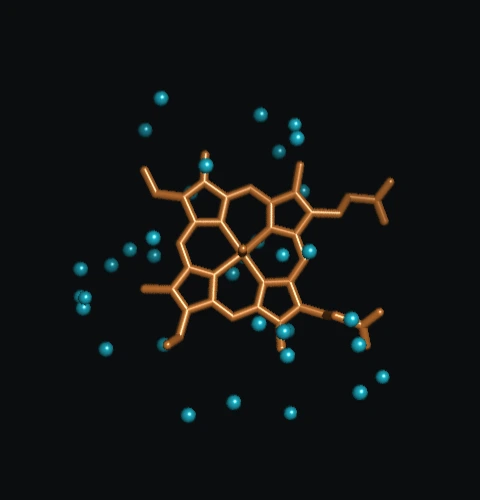
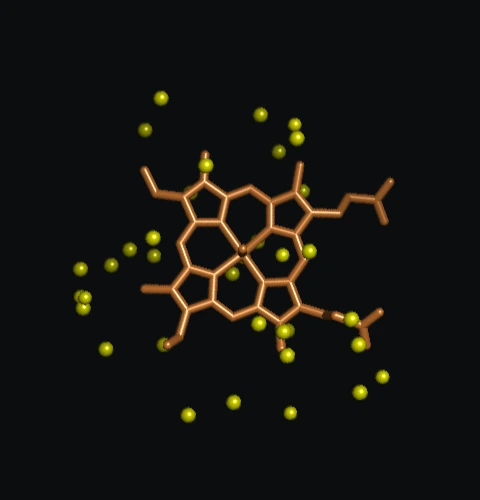
docs: use polymer chain colors throughout the selection lesson

diff --git a/docs/selections.html b/docs/selections.html
@@ -36,17 +36,17 @@
 <li><a href="#cheatsheet">Selection algebra cheat sheet</a></li>
 </ul></aside>
 <main class="docs-content" id="main"><a class="docs-back" href="../docs.html">← Documentation</a><noscript><p>Run the examples in desktop Patinae to follow along.</p></noscript>
-<section class="doc-page" id="atom-sets" data-title="From objects to selections" data-src="../assets/pdb/1HHO.pdb" data-command="hide everything; show cartoon, polymer.protein; show lines, resn HEM; color gray; color cyan, chain A; color orange, resn HEM; label polymer.protein and resi 1 and name CA, chain; orient polymer.protein; zoom polymer.protein, buffer=3">
+<section class="doc-page" id="atom-sets" data-title="From objects to selections" data-src="../assets/pdb/1HHO.pdb" data-command="hide everything; show cartoon, polymer.protein; show lines, resn HEM; color gray; color chain, polymer; color orange, resn HEM; label polymer.protein and resi 1 and name CA, chain; orient polymer.protein; zoom polymer.protein, buffer=3">
 <div class="docs-section">
 <div class="docs-hero"><h1>Selection algebra</h1><p>In <a class="ext-link" href="quick-start.html">Quick start</a>, you used commands to color a structure, change its representation and move the camera. Giving a command an object name makes the whole object its target. What if you want to work on just part of it?</p></div>
 <h2>Give a command a group of atoms</h2>
 <p>A <strong>selection</strong> is a group of atoms from any of the objects in a scene. It can contain a single atom, part of a molecule, or atoms from several objects at once. When you give a selection to a command such as <code>color</code>, the command colors only those atoms.</p>
-<p>Try this on the hemoglobin model from Quick start. Its object name is <code>1HHO</code>. Run the first command to turn the whole model gray. Then run the second and watch which parts turn orange.</p>
+<p>Try this on the hemoglobin model from Quick start. Its object name is <code>1HHO</code>. Run the first command to color the entire object by chain, including its heme segments. Then run the second and watch which parts turn orange.</p>
 <div class="command-example"><div class="command-lines">
-<div class="command-line"><code id="color-object">color gray, 1HHO</code><span class="command-line-actions"><button type="button" class="cmd-run command-run" data-run-example data-cmd-ref="color-object" disabled>Run</button><button type="button" data-copy="color-object" aria-label="Copy color gray, 1HHO">Copy</button></span></div>
+<div class="command-line"><code id="color-object">color chain, 1HHO</code><span class="command-line-actions"><button type="button" class="cmd-run command-run" data-run-example data-cmd-ref="color-object" disabled>Run</button><button type="button" data-copy="color-object" aria-label="Copy color chain, 1HHO">Copy</button></span></div>
 <div class="command-line"><code id="color-hemes">color orange, resn HEM</code><span class="command-line-actions"><button type="button" class="cmd-run command-run" data-run-example data-cmd-ref="color-hemes" disabled>Run</button><button type="button" data-copy="color-hemes" aria-label="Copy color orange, resn HEM">Copy</button></span></div>
 </div></div>
-<p>Both hemes turn orange and the protein ribbons stay gray. The expression <code>resn HEM</code> selects every atom whose residue name is HEM. You can use that expression directly wherever a command accepts a selection.</p>
+<p>Both hemes turn orange while the protein ribbons keep their chain colors. The expression <code>resn HEM</code> selects every atom whose residue name is HEM. You can use that expression directly wherever a command accepts a selection.</p>
 <h3>Give the selection a name</h3>
 <p>If you want to work with those atoms again, you can name the group. Here <code>select</code> gives it the name <code>hemes</code>.</p>
 <div class="command-example"><div class="command-lines">
@@ -94,7 +94,7 @@
 <div class="doc-page-nav"><button type="button" data-nav="prev"></button><span class="page-counter"></span><button type="button" data-nav="next"></button></div>
 </section>
 
-<section class="doc-page" id="logic" data-title="Combine sets" data-src="../assets/pdb/1HHO.pdb" data-command="hide everything; show cartoon, polymer.protein; show sticks, resn HEM; color gray; color cyan, chain A; color orange, resn HEM; label polymer.protein and resi 1 and name CA, chain; orient polymer.protein; zoom polymer.protein, buffer=3">
+<section class="doc-page" id="logic" data-title="Combine sets" data-src="../assets/pdb/1HHO.pdb" data-command="hide everything; show cartoon, polymer.protein; show sticks, resn HEM; color gray; color chain, polymer; color orange, resn HEM; label polymer.protein and resi 1 and name CA, chain; orient polymer.protein; zoom polymer.protein, buffer=3">
 <div class="docs-section">
 <h2>What survives each operation?</h2>
 <p>Use two overlapping sets. <code>chain A*</code> means every atom whose loaded chain identifier starts with A. In this file that includes the alpha protein, its heme and other atoms in its PDB chain. <code>resn HEM</code> covers both hemes. The camera stays still as you replace the selection.</p>
@@ -113,7 +113,7 @@
 <div class="command-example"><div class="command-lines">
 <div class="command-line"><code id="example-16">select sample, chain A* or resn HEM</code><span class="command-line-actions"><button type="button" class="cmd-run command-run" data-run-example data-cmd-ref="example-16" disabled>Run</button><button type="button" data-copy="example-16" aria-label="Copy select sample, chain A* or resn HEM">Copy</button></span></div>
 </div></div>
-<p>The beta heme joins the A atoms. The gray beta protein stays outside. An atom in both sets is counted once.</p>
+<p>The beta heme joins the A atoms. The pink beta protein stays outside. An atom in both sets is counted once.</p>
 <h3>Difference</h3>
 <p>Keep the A atoms and exclude every heme atom. Check the cyan protein and its orange heme separately.</p>
 <div class="command-example"><div class="command-lines">
@@ -131,7 +131,7 @@
 <div class="doc-page-nav"><button type="button" data-nav="prev"></button><span class="page-counter"></span><button type="button" data-nav="next"></button></div>
 </section>
 
-<section class="doc-page" id="grouping" data-title="Group conditions" data-src="../assets/pdb/1HHO.pdb" data-command="hide everything; show cartoon, polymer.protein; show sticks, resn HEM; color gray; color cyan, chain A; color orange, resn HEM; label polymer.protein and resi 1 and name CA, chain; orient polymer.protein; zoom polymer.protein, buffer=3">
+<section class="doc-page" id="grouping" data-title="Group conditions" data-src="../assets/pdb/1HHO.pdb" data-command="hide everything; show cartoon, polymer.protein; show sticks, resn HEM; color gray; color chain, polymer; color orange, resn HEM; label polymer.protein and resi 1 and name CA, chain; orient polymer.protein; zoom polymer.protein, buffer=3">
 <div class="docs-section">
 <h2>Follow one atom through the brackets</h2>
 <p>Pick any atom in the cyan protein ribbon. It belongs to an A segment and its residue name differs from HEM. Decide whether it should be selected by each of these expressions before pressing Run.</p>
@@ -150,7 +150,7 @@
 <div class="doc-page-nav"><button type="button" data-nav="prev"></button><span class="page-counter"></span><button type="button" data-nav="next"></button></div>
 </section>
 
-<section class="doc-page" id="distance" data-title="Measure a neighborhood" data-src="../assets/pdb/1HHO.pdb" data-command="select heme_a, chain A2 and resn HEM; select protein_a, chain A and polymer.protein; select near_a, protein_a within 4 of heme_a; select pocket_a, byres (near_a); disable *_a; hide everything; color gray; show sticks, heme_a; color orange, heme_a; set sphere_scale, 0.24; orient heme_a; turn y, 75; zoom heme_a, buffer=5">
+<section class="doc-page" id="distance" data-title="Measure a neighborhood" data-src="../assets/pdb/1HHO.pdb" data-command="select heme_a, chain A2 and resn HEM; select protein_a, chain A and polymer.protein; select near_a, protein_a within 4 of heme_a; select pocket_a, byres (near_a); disable *_a; hide everything; color gray; color chain, polymer; show sticks, heme_a; color orange, heme_a; set sphere_scale, 0.24; orient heme_a; turn y, 75; zoom heme_a, buffer=5">
 <div class="docs-section">
 <h2>Which protein atoms are within 4 Å?</h2>
 <p>The orange sticks show the heme from chain A. Define the two sides of the question. The candidates are protein atoms in chain A. The reference is the group of 43 heme atoms in A2. These names are also prepared when you enter this chapter directly.</p>
@@ -163,7 +163,7 @@
 <div class="command-line"><code id="example-27">select near_a, protein_a within 4 of heme_a</code><span class="command-line-actions"><button type="button" class="cmd-run command-run" data-run-example data-cmd-ref="example-27" disabled>Run</button><button type="button" data-copy="example-27" aria-label="Copy select near_a, protein_a within 4 of heme_a">Copy</button></span></div>
 <div class="command-line"><code id="example-28">disable *_a</code><span class="command-line-actions"><button type="button" class="cmd-run command-run" data-run-example data-cmd-ref="example-28" disabled>Run</button><button type="button" data-copy="example-28" aria-label="Copy disable *_a">Copy</button></span></div>
 <div class="command-line"><code id="example-29">show spheres, near_a</code><span class="command-line-actions"><button type="button" class="cmd-run command-run" data-run-example data-cmd-ref="example-29" disabled>Run</button><button type="button" data-copy="example-29" aria-label="Copy show spheres, near_a">Copy</button></span></div>
-<div class="command-line"><code id="example-30">color cyan, near_a</code><span class="command-line-actions"><button type="button" class="cmd-run command-run" data-run-example data-cmd-ref="example-30" disabled>Run</button><button type="button" data-copy="example-30" aria-label="Copy color cyan, near_a">Copy</button></span></div>
+<div class="command-line"><code id="example-30">color yellow, near_a</code><span class="command-line-actions"><button type="button" class="cmd-run command-run" data-run-example data-cmd-ref="example-30" disabled>Run</button><button type="button" data-copy="example-30" aria-label="Copy color yellow, near_a">Copy</button></span></div>
 </div></div>
 <p>The console reports <strong>35 atoms</strong>. The small spheres mark their positions. <code>disable *_a</code> hides the markers for the named selections ending in _a. Their atoms remain available for drawing and measurement.</p>
 <h3>Move the boundary</h3>
@@ -173,28 +173,28 @@
 <div class="command-line"><code id="example-32">disable *_a</code><span class="command-line-actions"><button type="button" class="cmd-run command-run" data-run-example data-cmd-ref="example-32" disabled>Run</button><button type="button" data-copy="example-32" aria-label="Copy disable *_a">Copy</button></span></div>
 <div class="command-line"><code id="example-33">show spheres, wider_a</code><span class="command-line-actions"><button type="button" class="cmd-run command-run" data-run-example data-cmd-ref="example-33" disabled>Run</button><button type="button" data-copy="example-33" aria-label="Copy show spheres, wider_a">Copy</button></span></div>
 </div></div>
-<p>There are now 142 atoms. The original 35 remain cyan. The additional atoms form a wider shell around the same heme.</p>
+<p>There are now 142 atoms. The original 35 remain yellow. The additional atoms form a wider shell around the same heme.</p>
 </div>
 <div class="doc-page-nav"><button type="button" data-nav="prev"></button><span class="page-counter"></span><button type="button" data-nav="next"></button></div>
 </section>
 
-<section class="doc-page" id="residues" data-title="From atoms to residues" data-src="../assets/pdb/1HHO.pdb" data-command="select heme_a, chain A2 and resn HEM; select protein_a, chain A and polymer.protein; select near_a, protein_a within 4 of heme_a; select pocket_a, byres (near_a); disable *_a; hide everything; color gray; show sticks, heme_a; color orange, heme_a; set sphere_scale, 0.24; orient heme_a; turn y, 75; zoom heme_a, buffer=5">
+<section class="doc-page" id="residues" data-title="From atoms to residues" data-src="../assets/pdb/1HHO.pdb" data-command="select heme_a, chain A2 and resn HEM; select protein_a, chain A and polymer.protein; select near_a, protein_a within 4 of heme_a; select pocket_a, byres (near_a); disable *_a; hide everything; color gray; color chain, polymer; show sticks, heme_a; color orange, heme_a; set sphere_scale, 0.24; orient heme_a; turn y, 75; zoom heme_a, buffer=5">
 <div class="docs-section">
 <h2>Recover the residues around the heme</h2>
-<p>An atom can sit close to the heme while the rest of its residue extends away. Start with the same 35 atoms from the previous chapter. Draw them as cyan spheres.</p>
+<p>An atom can sit close to the heme while the rest of its residue extends away. Start with the same 35 atoms from the previous chapter. Draw them as yellow spheres.</p>
 <div class="command-example"><div class="command-lines">
 <div class="command-line"><code id="example-34">select near_a, protein_a within 4 of heme_a</code><span class="command-line-actions"><button type="button" class="cmd-run command-run" data-run-example data-cmd-ref="example-34" disabled>Run</button><button type="button" data-copy="example-34" aria-label="Copy select near_a, protein_a within 4 of heme_a">Copy</button></span></div>
 <div class="command-line"><code id="example-35">disable *_a</code><span class="command-line-actions"><button type="button" class="cmd-run command-run" data-run-example data-cmd-ref="example-35" disabled>Run</button><button type="button" data-copy="example-35" aria-label="Copy disable *_a">Copy</button></span></div>
 <div class="command-line"><code id="example-36">show spheres, near_a</code><span class="command-line-actions"><button type="button" class="cmd-run command-run" data-run-example data-cmd-ref="example-36" disabled>Run</button><button type="button" data-copy="example-36" aria-label="Copy show spheres, near_a">Copy</button></span></div>
-<div class="command-line"><code id="example-37">color cyan, near_a</code><span class="command-line-actions"><button type="button" class="cmd-run command-run" data-run-example data-cmd-ref="example-37" disabled>Run</button><button type="button" data-copy="example-37" aria-label="Copy color cyan, near_a">Copy</button></span></div>
+<div class="command-line"><code id="example-37">color yellow, near_a</code><span class="command-line-actions"><button type="button" class="cmd-run command-run" data-run-example data-cmd-ref="example-37" disabled>Run</button><button type="button" data-copy="example-37" aria-label="Copy color yellow, near_a">Copy</button></span></div>
 </div></div>
-<p>Now keep every residue that contains at least one of those atoms. Leave the spheres in place and draw the complete residues as sticks. Watch where the sticks extend beyond the cyan atoms.</p>
+<p>Now keep every residue that contains at least one of those atoms. Leave the spheres in place and draw the complete residues as sticks. Watch where the sticks extend beyond the yellow atoms.</p>
 <div class="command-example"><div class="command-lines">
 <div class="command-line"><code id="example-38">select pocket_a, byres (near_a)</code><span class="command-line-actions"><button type="button" class="cmd-run command-run" data-run-example data-cmd-ref="example-38" disabled>Run</button><button type="button" data-copy="example-38" aria-label="Copy select pocket_a, byres (near_a)">Copy</button></span></div>
 <div class="command-line"><code id="example-39">disable *_a</code><span class="command-line-actions"><button type="button" class="cmd-run command-run" data-run-example data-cmd-ref="example-39" disabled>Run</button><button type="button" data-copy="example-39" aria-label="Copy disable *_a">Copy</button></span></div>
 <div class="command-line"><code id="example-40">show sticks, pocket_a</code><span class="command-line-actions"><button type="button" class="cmd-run command-run" data-run-example data-cmd-ref="example-40" disabled>Run</button><button type="button" data-copy="example-40" aria-label="Copy show sticks, pocket_a">Copy</button></span></div>
 </div></div>
-<div class="selection-frames"><figure><img src="../assets/images/selections/near.webp" width="480" height="500" alt="Orange heme surrounded by 35 cyan spheres at the positions of nearby protein atoms."><figcaption>35 protein atoms pass the distance test.</figcaption></figure><figure><img src="../assets/images/selections/pocket.webp" width="480" height="500" alt="The same cyan atoms and orange heme with bonds drawn through all 18 surrounding residues."><figcaption>158 atoms belong to the 18 complete residues.</figcaption></figure></div>
+<div class="selection-frames"><figure><img src="../assets/images/selections/near.webp" width="480" height="500" alt="Orange heme surrounded by 35 yellow spheres at the positions of nearby protein atoms."><figcaption>35 protein atoms pass the distance test.</figcaption></figure><figure><img src="../assets/images/selections/pocket.webp" width="480" height="500" alt="The same yellow atoms and orange heme with bonds drawn through all 18 surrounding residues."><figcaption>158 atoms belong to the 18 complete residues.</figcaption></figure></div>
 <p>The result contains <strong>158 atoms in 18 residues</strong>. Count one alpha carbon per selected protein residue as a cross-check.</p>
 <div class="command-example"><div class="command-lines">
 <div class="command-line"><code id="example-41">select sample, pocket_a and name CA</code><span class="command-line-actions"><button type="button" class="cmd-run command-run" data-run-example data-cmd-ref="example-41" disabled>Run</button><button type="button" data-copy="example-41" aria-label="Copy select sample, pocket_a and name CA">Copy</button></span></div>
@@ -216,7 +216,7 @@
 <div class="doc-page-nav"><button type="button" data-nav="prev"></button><span class="page-counter"></span><button type="button" data-nav="next"></button></div>
 </section>
 
-<section class="doc-page" id="paths" data-title="Read a slash path" data-src="../assets/pdb/1HHO.pdb" data-command="hide everything; show cartoon, polymer.protein; show sticks, resn HEM; color gray; color cyan, chain A; color orange, resn HEM; label polymer.protein and resi 1 and name CA, chain; orient polymer.protein; zoom polymer.protein, buffer=3">
+<section class="doc-page" id="paths" data-title="Read a slash path" data-src="../assets/pdb/1HHO.pdb" data-command="hide everything; show cartoon, polymer.protein; show sticks, resn HEM; color gray; color chain, polymer; color orange, resn HEM; label polymer.protein and resi 1 and name CA, chain; orient polymer.protein; zoom polymer.protein, buffer=3">
 <div class="docs-section">
 <h2>Two addresses for the same iron</h2>
 <p>A slash path writes successive fields in a fixed order. Read this one from the left. A leading slash starts at the object, and the empty segment field between two slashes leaves that field unrestricted.</p>
@@ -256,7 +256,7 @@
 <div class="doc-page-nav"><button type="button" data-nav="prev"></button><span class="page-counter"></span><button type="button" data-nav="next"></button></div>
 </section>
 
-<section class="doc-page" id="practice" data-title="Practice on 4HHB" data-src="../assets/pdb/4HHB.pdb" data-command="hide everything; show cartoon, polymer.protein; show sticks, resn HEM; color chain; color orange, resn HEM; label polymer.protein and resi 1 and name CA, chain; orient polymer.protein; zoom polymer.protein, buffer=3">
+<section class="doc-page" id="practice" data-title="Practice on 4HHB" data-src="../assets/pdb/4HHB.pdb" data-command="hide everything; show cartoon, polymer.protein; show sticks, resn HEM; color gray; color chain, polymer; color orange, resn HEM; label polymer.protein and resi 1 and name CA, chain; orient polymer.protein; zoom polymer.protein, buffer=3">
 <div class="docs-section">
 <h2>Find a heme pocket in 4HHB</h2>
 <p>You now have four protein chains, A through D, each with a heme. Their heme segments are A2 through D2. Work in the prompt and check your prediction on the model. The last exercise builds on the names you create in exercise 4.</p>
@@ -296,11 +296,11 @@
 <div class="command-line"><code id="example-68">select pocket_d, byres (near_d)</code><span class="command-line-actions"><button type="button" class="cmd-run command-run" data-run-example data-cmd-ref="example-68" disabled>Run</button><button type="button" data-copy="example-68" aria-label="Copy select pocket_d, byres (near_d)">Copy</button></span></div>
 <div class="command-line"><code id="example-69">hide everything</code><span class="command-line-actions"><button type="button" class="cmd-run command-run" data-run-example data-cmd-ref="example-69" disabled>Run</button><button type="button" data-copy="example-69" aria-label="Copy hide everything">Copy</button></span></div>
 <div class="command-line"><code id="example-70">show sticks, heme_d or pocket_d</code><span class="command-line-actions"><button type="button" class="cmd-run command-run" data-run-example data-cmd-ref="example-70" disabled>Run</button><button type="button" data-copy="example-70" aria-label="Copy show sticks, heme_d or pocket_d">Copy</button></span></div>
-<div class="command-line"><code id="example-71">color gray, pocket_d</code><span class="command-line-actions"><button type="button" class="cmd-run command-run" data-run-example data-cmd-ref="example-71" disabled>Run</button><button type="button" data-copy="example-71" aria-label="Copy color gray, pocket_d">Copy</button></span></div>
+<div class="command-line"><code id="example-71">color chain, polymer</code><span class="command-line-actions"><button type="button" class="cmd-run command-run" data-run-example data-cmd-ref="example-71" disabled>Run</button><button type="button" data-copy="example-71" aria-label="Copy color chain, polymer">Copy</button></span></div>
 <div class="command-line"><code id="example-72">color orange, heme_d</code><span class="command-line-actions"><button type="button" class="cmd-run command-run" data-run-example data-cmd-ref="example-72" disabled>Run</button><button type="button" data-copy="example-72" aria-label="Copy color orange, heme_d">Copy</button></span></div>
 <div class="command-line"><code id="example-73">set sphere_scale, 0.24</code><span class="command-line-actions"><button type="button" class="cmd-run command-run" data-run-example data-cmd-ref="example-73" disabled>Run</button><button type="button" data-copy="example-73" aria-label="Copy set sphere_scale, 0.24">Copy</button></span></div>
 <div class="command-line"><code id="example-74">show spheres, near_d</code><span class="command-line-actions"><button type="button" class="cmd-run command-run" data-run-example data-cmd-ref="example-74" disabled>Run</button><button type="button" data-copy="example-74" aria-label="Copy show spheres, near_d">Copy</button></span></div>
-<div class="command-line"><code id="example-75">color cyan, near_d</code><span class="command-line-actions"><button type="button" class="cmd-run command-run" data-run-example data-cmd-ref="example-75" disabled>Run</button><button type="button" data-copy="example-75" aria-label="Copy color cyan, near_d">Copy</button></span></div>
+<div class="command-line"><code id="example-75">color yellow, near_d</code><span class="command-line-actions"><button type="button" class="cmd-run command-run" data-run-example data-cmd-ref="example-75" disabled>Run</button><button type="button" data-copy="example-75" aria-label="Copy color yellow, near_d">Copy</button></span></div>
 <div class="command-line"><code id="example-76">zoom pocket_d, buffer=2</code><span class="command-line-actions"><button type="button" class="cmd-run command-run" data-run-example data-cmd-ref="example-76" disabled>Run</button><button type="button" data-copy="example-76" aria-label="Copy zoom pocket_d, buffer=2">Copy</button></span></div>
 <div class="command-line"><code id="example-77">select sample, pocket_d and name CA</code><span class="command-line-actions"><button type="button" class="cmd-run command-run" data-run-example data-cmd-ref="example-77" disabled>Run</button><button type="button" data-copy="example-77" aria-label="Copy select sample, pocket_d and name CA">Copy</button></span></div>
 <div class="command-line"><code id="example-78">disable sample</code><span class="command-line-actions"><button type="button" class="cmd-run command-run" data-run-example data-cmd-ref="example-78" disabled>Run</button><button type="button" data-copy="example-78" aria-label="Copy disable sample">Copy</button></span></div>
@@ -321,7 +321,7 @@
 </div>
 <div class="doc-page-nav"><button type="button" data-nav="prev"></button><span class="page-counter"></span><button type="button" data-nav="next"></button></div>
 </section>
-<section class="doc-page" id="cheatsheet" data-title="Selection algebra cheat sheet" data-src="../assets/pdb/1HHO.pdb" data-command="select hemes, resn HEM; disable hemes; hide everything; show cartoon, polymer.protein; show sticks, resn HEM; color gray; color cyan, chain A; color orange, resn HEM; label polymer.protein and resi 1 and name CA, chain; orient polymer.protein; zoom polymer.protein, buffer=3">
+<section class="doc-page" id="cheatsheet" data-title="Selection algebra cheat sheet" data-src="../assets/pdb/1HHO.pdb" data-command="select hemes, resn HEM; disable hemes; hide everything; show cartoon, polymer.protein; show sticks, resn HEM; color gray; color chain, polymer; color orange, resn HEM; label polymer.protein and resi 1 and name CA, chain; orient polymer.protein; zoom polymer.protein, buffer=3">
 <div class="docs-section">
 <h2>Selection algebra cheat sheet</h2>
 <p>Try an expression on 1HHO or use it as the target of your own command. Each button runs <code>select sample,</code> followed by the expression. This page defines <code>hemes</code> as <code>resn HEM</code>. In the console, <code>show sticks, sample</code> draws the current selection and <code>deselect</code> clears named selections.</p>
